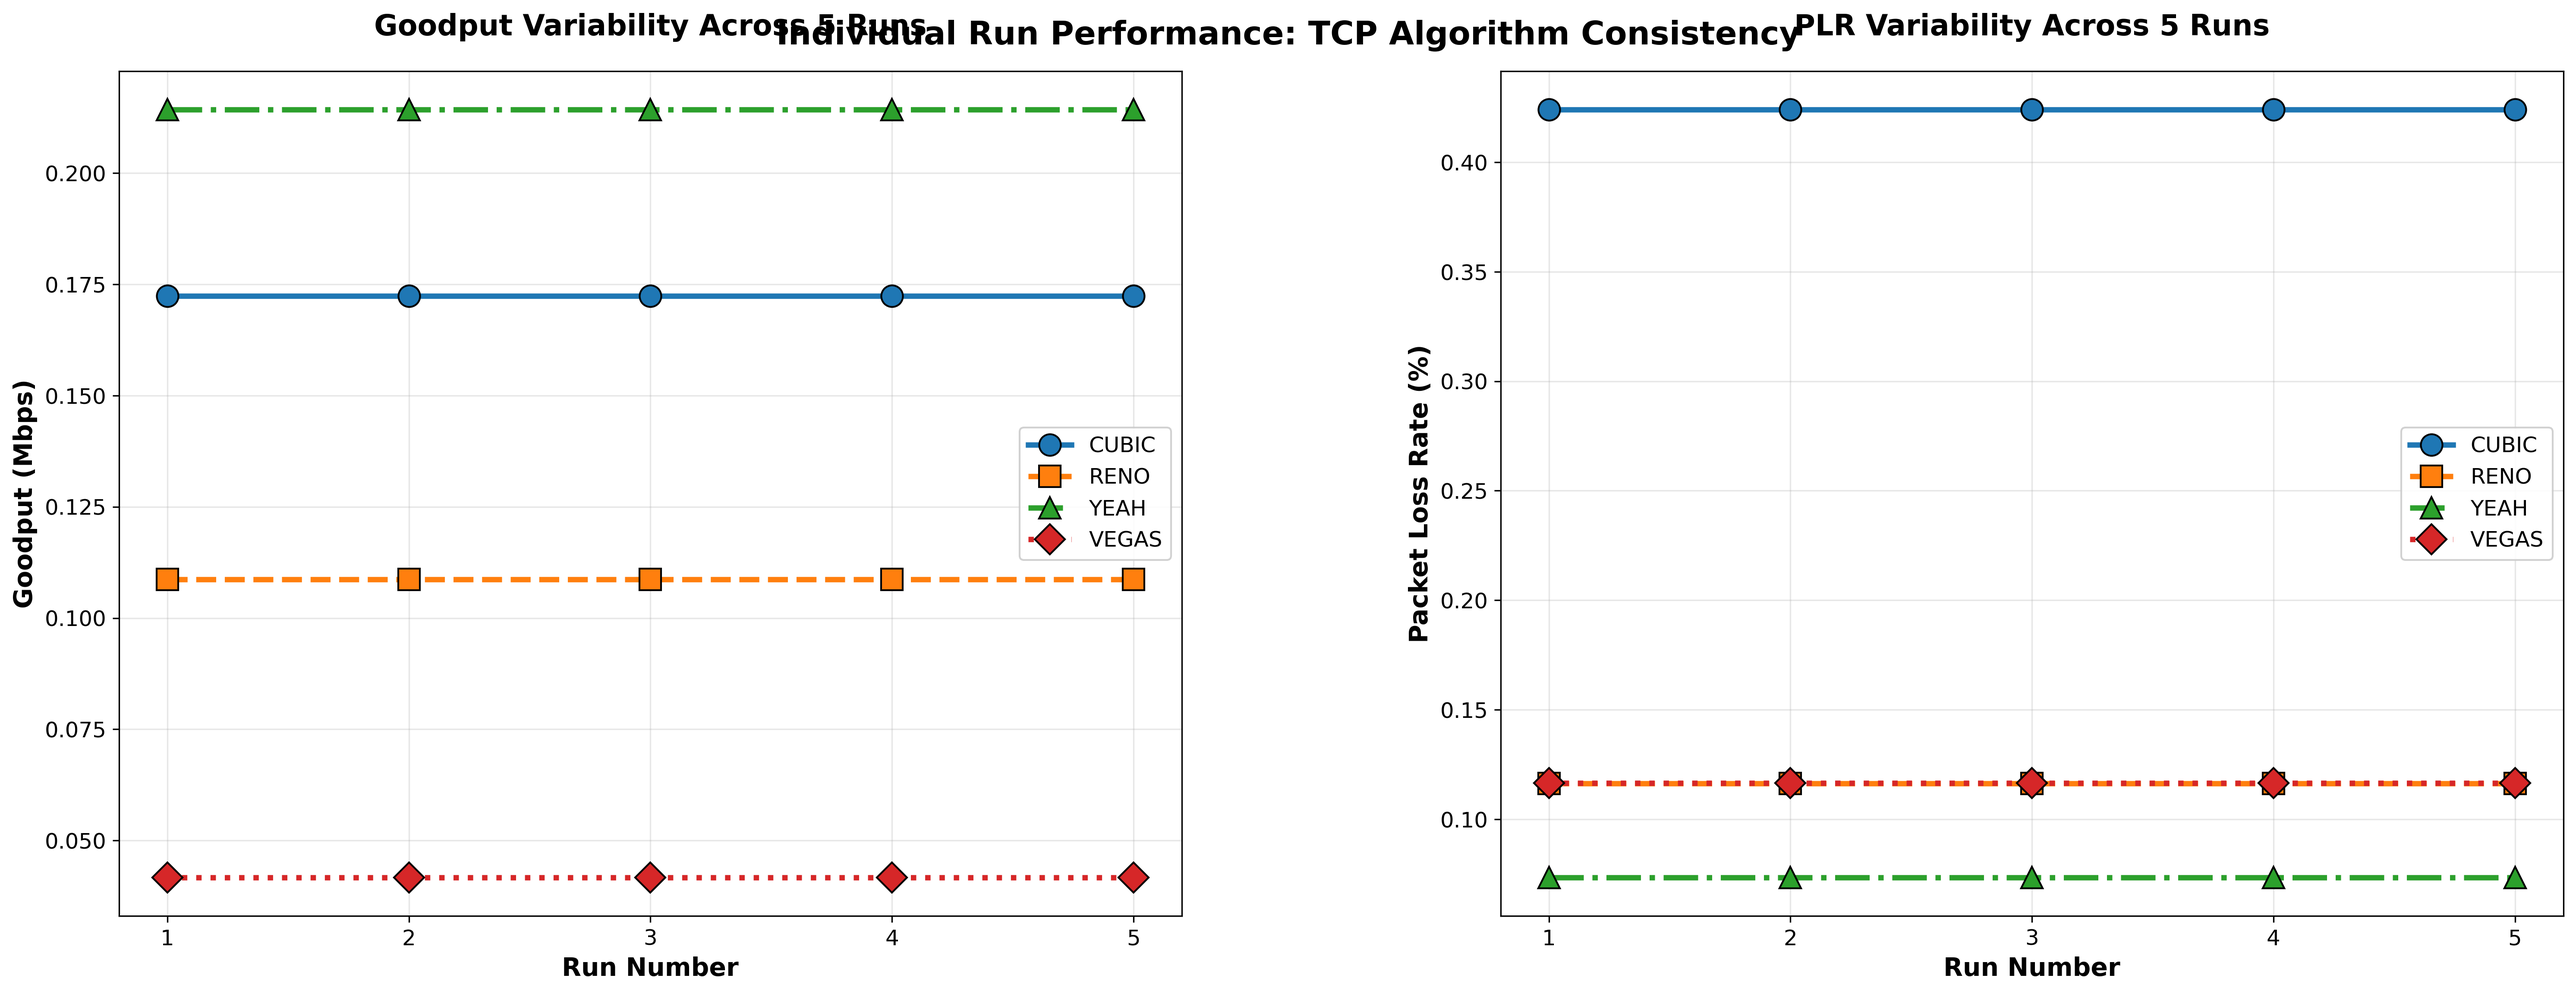
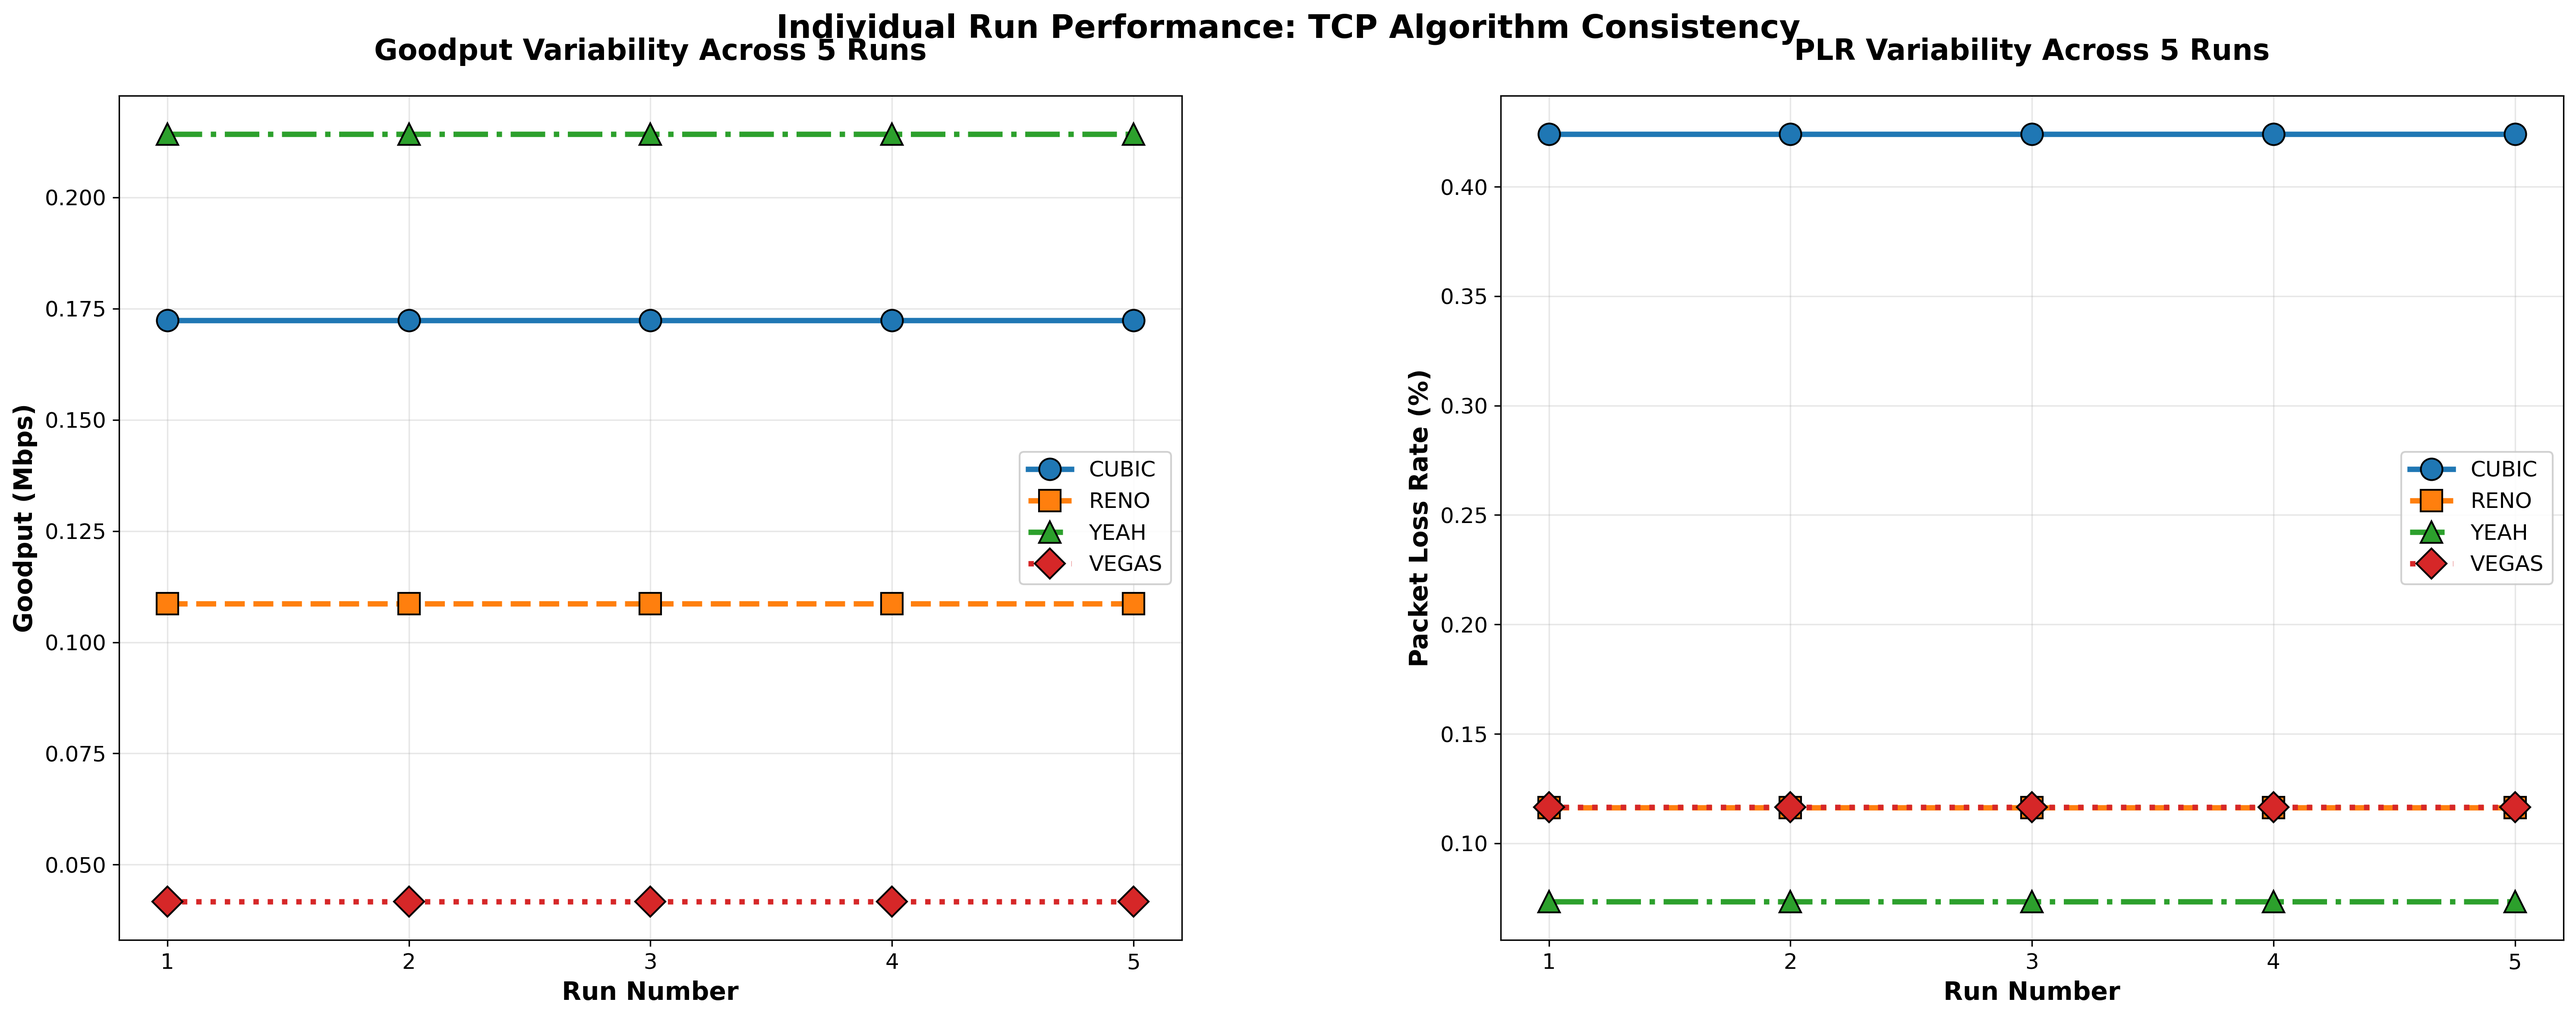
part C 2

diff --git a/analyser_partC.py b/analyser_partC.py
@@ -155,7 +155,7 @@ class PartCAnalyser:
                       for s in scenarios]]
 
         # Create figure with two charts - larger size and more spacing
-        fig, (ax1, ax2) = plt.subplots(1, 2, figsize=(20, 8))
+        fig, (ax1, ax2) = plt.subplots(1, 2, figsize=(25, 10))
 
         # Define colors for better visual distinction
         colors = ['#1f77b4', '#ff7f0e', '#2ca02c', '#d62728']
@@ -169,7 +169,7 @@ class PartCAnalyser:
 
         ax1.set_xlabel('TCP Algorithms', fontsize=14, fontweight='bold')
         ax1.set_ylabel('Goodput (Mbps)', fontsize=14, fontweight='bold')
-        ax1.set_title('Goodput Comparison with \n95% Confidence Intervals\n(5 Runs Each)', 
+        ax1.set_title('Goodput Comparison with 95% Confidence Intervals\n(5 Runs Each)', 
                      fontsize=14, fontweight='bold', pad=25)
         ax1.set_xticks(x_pos)
         ax1.set_xticklabels([s.upper() for s in scenarios], fontsize=13, fontweight='bold')
@@ -185,7 +185,7 @@ class PartCAnalyser:
             error_margin = goodput_errors[1][i]  # Use upper error for positioning
 
             # Position label just above the error bar with small margin
-            label_height = height + error_margin + (max_goodput * 0.03)
+            label_height = height + error_margin + 0.1
             ax1.text(bar.get_x() + bar.get_width()/2., label_height,
                     f'{height:.4f}\n±{error_margin:.4f}', 
                     ha='center', va='bottom', fontsize=11, fontweight='bold',
@@ -197,7 +197,7 @@ class PartCAnalyser:
         
         ax2.set_xlabel('TCP Algorithms', fontsize=14, fontweight='bold')
         ax2.set_ylabel('Packet Loss Rate (%)', fontsize=14, fontweight='bold')
-        ax2.set_title('Packet Loss Rate with \n95% Confidence Intervals \n(5 Runs Each)', 
+        ax2.set_title('Packet Loss Rate with 95% Confidence Intervals \n(5 Runs Each)', 
                      fontsize=14, fontweight='bold', pad=25)
         ax2.set_xticks(x_pos)
         ax2.set_xticklabels([s.upper() for s in scenarios], fontsize=13, fontweight='bold')
@@ -213,7 +213,7 @@ class PartCAnalyser:
             error_margin = plr_errors[1][i]  # Use upper error for positioning
 
             # Position label just above the error bar
-            label_height = height + error_margin + (max_plr * 0.08)
+            label_height = height + error_margin + 0.1
             ax2.text(bar.get_x() + bar.get_width()/2., label_height,
                     f'{height:.2f}%\n±{error_margin:.2f}%', 
                     ha='center', va='bottom', fontsize=11, fontweight='bold',
@@ -221,7 +221,7 @@ class PartCAnalyser:
 
         # Add overall figure title
         fig.suptitle('TCP Algorithm Performance: Reproducibility Analysis (5 Runs)', 
-                    fontsize=18, fontweight='bold', y=0.95)
+                    fontsize=18, fontweight='bold', y=0.98)
         
         # Adjust layout with more spacing between subplots
         plt.tight_layout()
@@ -279,7 +279,7 @@ class PartCAnalyser:
 
         # Add overall title
         fig.suptitle('Individual Run Performance: TCP Algorithm Consistency', 
-                    fontsize=18, fontweight='bold', y=0.95)
+                    fontsize=18, fontweight='bold', y=0.98)
         
         # Adjust layout
         plt.tight_layout()
